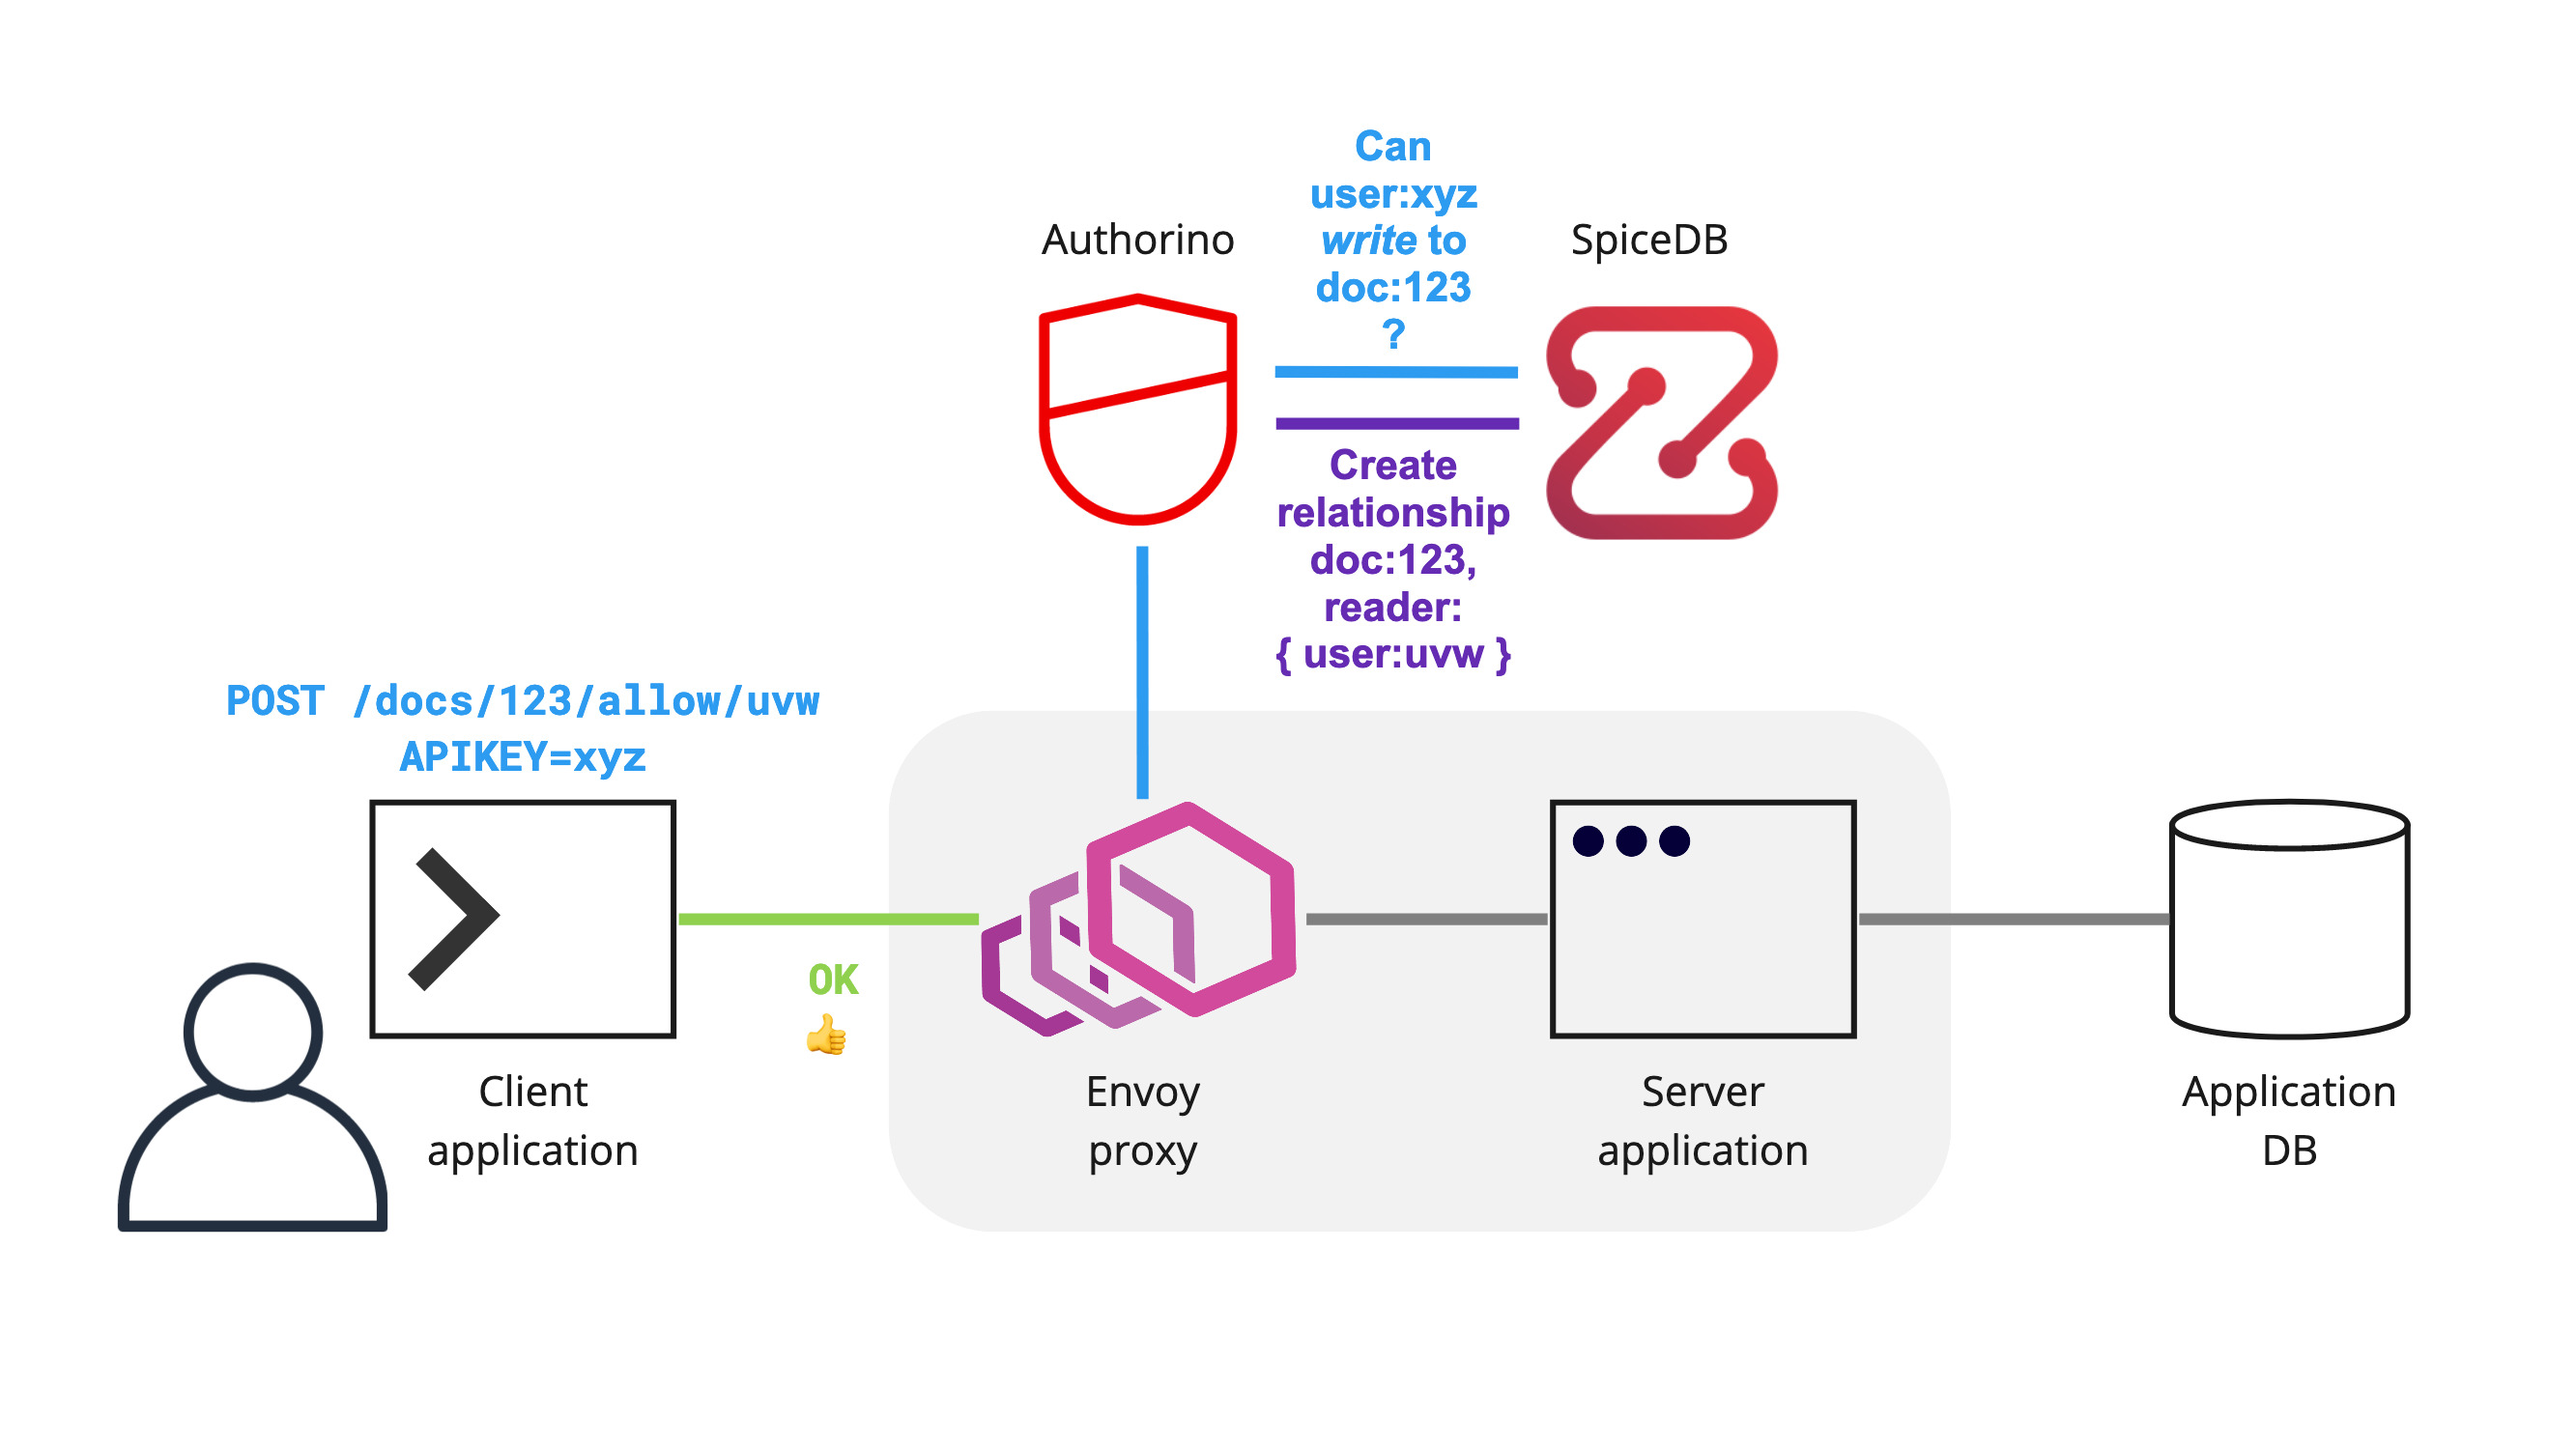
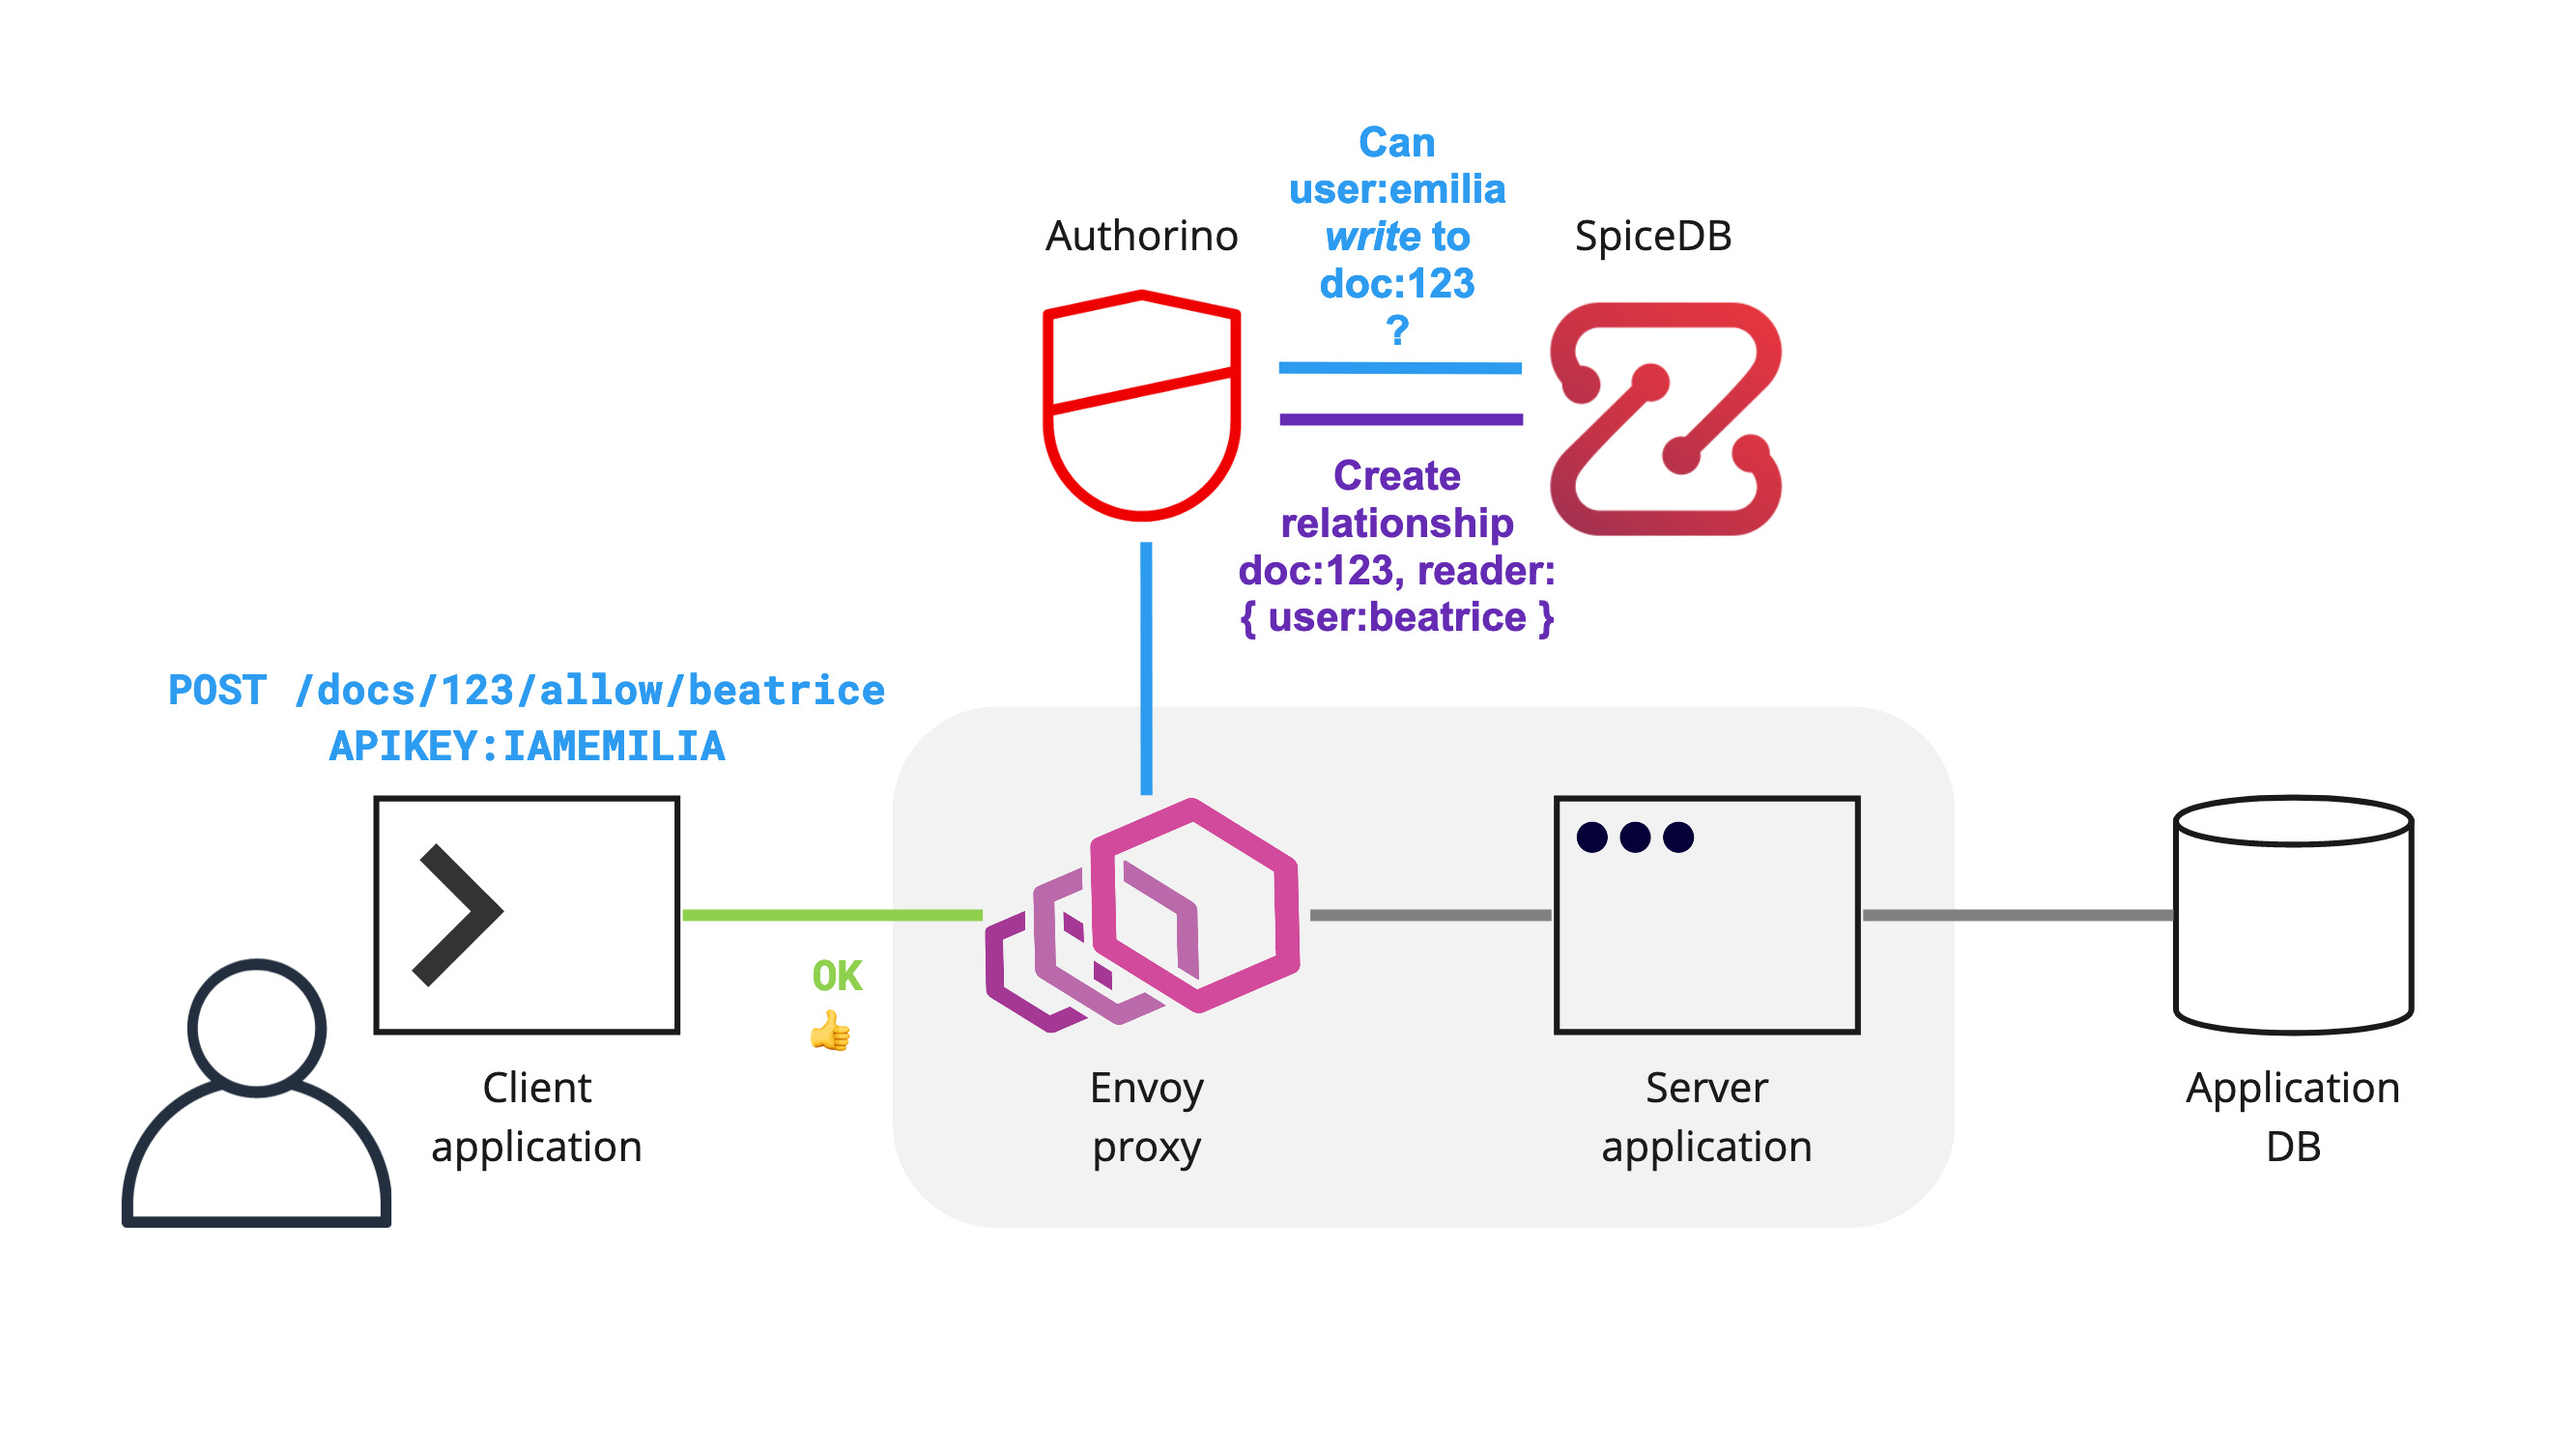
Make images and text match regarding the user names and resource IDs

diff --git a/README.md b/README.md
@@ -844,10 +844,10 @@ The full scope of the demo consists of protecting endpoints of a REST API that h
      -X POST \
      -H 'Content-Type: application/json' \
      -d '{"title":"Emilia´s doc","body":"This is Emilia´s doc."}' \
-     http://docs-api.127.0.0.1.nip.io/docs/e9ebb594-c3fc-4f0d-bbbd-a0fd3fac6639 -i
+     http://docs-api.127.0.0.1.nip.io/docs/123 -i
   # HTTP/1.1 200 OK
   # ...
-  # {"id":"e9ebb594-c3fc-4f0d-bbbd-a0fd3fac6639","title":"Emilia´s doc","body":"This is Emilia´s doc.","date":"2023-02-07 18:17:30 +0000","author":"👩🏾 Emilia Jones","user_id":"emilia"}
+  # {"id":"123","title":"Emilia´s doc","body":"This is Emilia´s doc.","date":"2023-02-07 18:17:30 +0000","author":"👩🏾 Emilia Jones","user_id":"emilia"}
   ```
 
   <br/>
@@ -863,7 +863,7 @@ The full scope of the demo consists of protecting endpoints of a REST API that h
   ```sh
   curl -H 'Authorization: APIKEY IAMEMILIA' \
      -X GET \
-     http://docs-api.127.0.0.1.nip.io/docs/e9ebb594-c3fc-4f0d-bbbd-a0fd3fac6639 -i
+     http://docs-api.127.0.0.1.nip.io/docs/123 -i
   # HTTP/1.1 200 OK
   ```
 
@@ -880,7 +880,7 @@ The full scope of the demo consists of protecting endpoints of a REST API that h
   ```sh
   curl -H 'Authorization: APIKEY IAMBEATRICE' \
      -X GET \
-     http://docs-api.127.0.0.1.nip.io/docs/e9ebb594-c3fc-4f0d-bbbd-a0fd3fac6639 -i
+     http://docs-api.127.0.0.1.nip.io/docs/123 -i
   # HTTP/1.1 403 Forbidden
   # x-ext-auth-reason: PERMISSIONSHIP_NO_PERMISSION;token=...
   ```
@@ -898,7 +898,7 @@ The full scope of the demo consists of protecting endpoints of a REST API that h
   ```sh
   curl -H 'Authorization: APIKEY IAMEMILIA' \
      -X POST \
-     http://docs-api.127.0.0.1.nip.io/docs/e9ebb594-c3fc-4f0d-bbbd-a0fd3fac6639/allow/beatrice -i
+     http://docs-api.127.0.0.1.nip.io/docs/123/allow/beatrice -i
   # HTTP/1.1 200 OK
   ```
 
@@ -909,7 +909,7 @@ The full scope of the demo consists of protecting endpoints of a REST API that h
   ```sh
   curl -H 'Authorization: APIKEY IAMBEATRICE' \
      -X GET \
-     http://docs-api.127.0.0.1.nip.io/docs/e9ebb594-c3fc-4f0d-bbbd-a0fd3fac6639 -i
+     http://docs-api.127.0.0.1.nip.io/docs/123 -i
   # HTTP/1.1 200 OK
   ```
 
@@ -922,10 +922,10 @@ The full scope of the demo consists of protecting endpoints of a REST API that h
      -X POST \
      -H 'Content-Type: application/json' \
      -d '{"title":"Beatrice´s doc","body":"This is Beatrice´s doc."}' \
-     http://docs-api.127.0.0.1.nip.io/docs/eed6a74b-ccb1-4e8f-afab-be2a5e1bd97b -i
+     http://docs-api.127.0.0.1.nip.io/docs/456 -i
   # HTTP/1.1 200 OK
   # ...
-  # {"id":"eed6a74b-ccb1-4e8f-afab-be2a5e1bd97b","title":"Beatrice´s doc","body":"This is Beatrice´s doc.","date":"2023-02-07 18:25:10 +0000","author":"🧑🏻🦰 Beatrice Smith","user_id":"beatrice"}
+  # {"id":"456","title":"Beatrice´s doc","body":"This is Beatrice´s doc.","date":"2023-02-07 18:25:10 +0000","author":"🧑🏻🦰 Beatrice Smith","user_id":"beatrice"}
   ```
 
   <br/>
@@ -944,8 +944,8 @@ The full scope of the demo consists of protecting endpoints of a REST API that h
   # HTTP/1.1 200 OK
   # ...
   # [
-  #   {"id":"e9ebb594-c3fc-4f0d-bbbd-a0fd3fac6639","title":"Emilia´s doc","body":"This is Emilia´s doc.","date":"2023-02-07 18:17:30 +0000","author":"👩🏾 Emilia Jones","user_id":"emilia"},
-  #   {"id":"eed6a74b-ccb1-4e8f-afab-be2a5e1bd97b","title":"Beatrice´s doc","body":"This is Beatrice´s doc.","date":"2023-02-07 18:25:10 +0000","author":"🧑🏻🦰 Beatrice Smith","user_id":"beatrice"}
+  #   {"id":"123","title":"Emilia´s doc","body":"This is Emilia´s doc.","date":"2023-02-07 18:17:30 +0000","author":"👩🏾 Emilia Jones","user_id":"emilia"},
+  #   {"id":"456","title":"Beatrice´s doc","body":"This is Beatrice´s doc.","date":"2023-02-07 18:25:10 +0000","author":"🧑🏻🦰 Beatrice Smith","user_id":"beatrice"}
   # ]
   ```
 
@@ -958,7 +958,7 @@ The full scope of the demo consists of protecting endpoints of a REST API that h
      http://docs-api.127.0.0.1.nip.io/docs -i
   # HTTP/1.1 200 OK
   # ...
-  # [{"id":"e9ebb594-c3fc-4f0d-bbbd-a0fd3fac6639","title":"Emilia´s doc","body":"This is Emilia´s doc.","date":"2023-02-07 18:17:30 +0000","author":"👩🏾 Emilia Jones","user_id":"emilia"}]
+  # [{"id":"123","title":"Emilia´s doc","body":"This is Emilia´s doc.","date":"2023-02-07 18:17:30 +0000","author":"👩🏾 Emilia Jones","user_id":"emilia"}]
   ```
 
   <br/>
@@ -974,7 +974,7 @@ The full scope of the demo consists of protecting endpoints of a REST API that h
   ```sh
   curl -H 'Authorization: APIKEY IAMEMILIA' \
      -X DELETE \
-     http://docs-api.127.0.0.1.nip.io/docs/e9ebb594-c3fc-4f0d-bbbd-a0fd3fac6639/allow/beatrice -i
+     http://docs-api.127.0.0.1.nip.io/docs/123/allow/beatrice -i
   # HTTP/1.1 200 OK
   ```
 
@@ -987,7 +987,7 @@ The full scope of the demo consists of protecting endpoints of a REST API that h
      http://docs-api.127.0.0.1.nip.io/docs -i
   # HTTP/1.1 200 OK
   # ...
-  # [{"id":"eed6a74b-ccb1-4e8f-afab-be2a5e1bd97b","title":"Beatrice´s doc","body":"This is Beatrice´s doc.","date":"2023-02-07 18:25:10 +0000","author":"🧑🏻🦰 Beatrice Smith","user_id":"beatrice"}]
+  # [{"id":"456","title":"Beatrice´s doc","body":"This is Beatrice´s doc.","date":"2023-02-07 18:25:10 +0000","author":"🧑🏻🦰 Beatrice Smith","user_id":"beatrice"}]
   ```
 
   <br/>
@@ -997,7 +997,7 @@ The full scope of the demo consists of protecting endpoints of a REST API that h
   ```sh
   curl -H 'Authorization: APIKEY IAMBEATRICE' \
      -X GET \
-     http://docs-api.127.0.0.1.nip.io/docs/e9ebb594-c3fc-4f0d-bbbd-a0fd3fac6639 -i
+     http://docs-api.127.0.0.1.nip.io/docs/123 -i
   # HTTP/1.1 403 Forbidden
   # x-ext-auth-reason: PERMISSIONSHIP_NO_PERMISSION;token=...
   ```
@@ -1015,7 +1015,7 @@ The full scope of the demo consists of protecting endpoints of a REST API that h
   ```sh
   curl -H 'Authorization: APIKEY IAMEMILIA' \
      -X DELETE \
-     http://docs-api.127.0.0.1.nip.io/docs/e9ebb594-c3fc-4f0d-bbbd-a0fd3fac6639 -i
+     http://docs-api.127.0.0.1.nip.io/docs/123 -i
   # HTTP/1.1 200 OK
   ```
 
@@ -1026,7 +1026,7 @@ The full scope of the demo consists of protecting endpoints of a REST API that h
   ```sh
   curl -H 'Authorization: APIKEY IAMEMILIA' \
      -X GET \
-     http://docs-api.127.0.0.1.nip.io/docs/e9ebb594-c3fc-4f0d-bbbd-a0fd3fac6639 -i
+     http://docs-api.127.0.0.1.nip.io/docs/123 -i
   # HTTP/1.1 404 Not Found
   ```
 </details>
